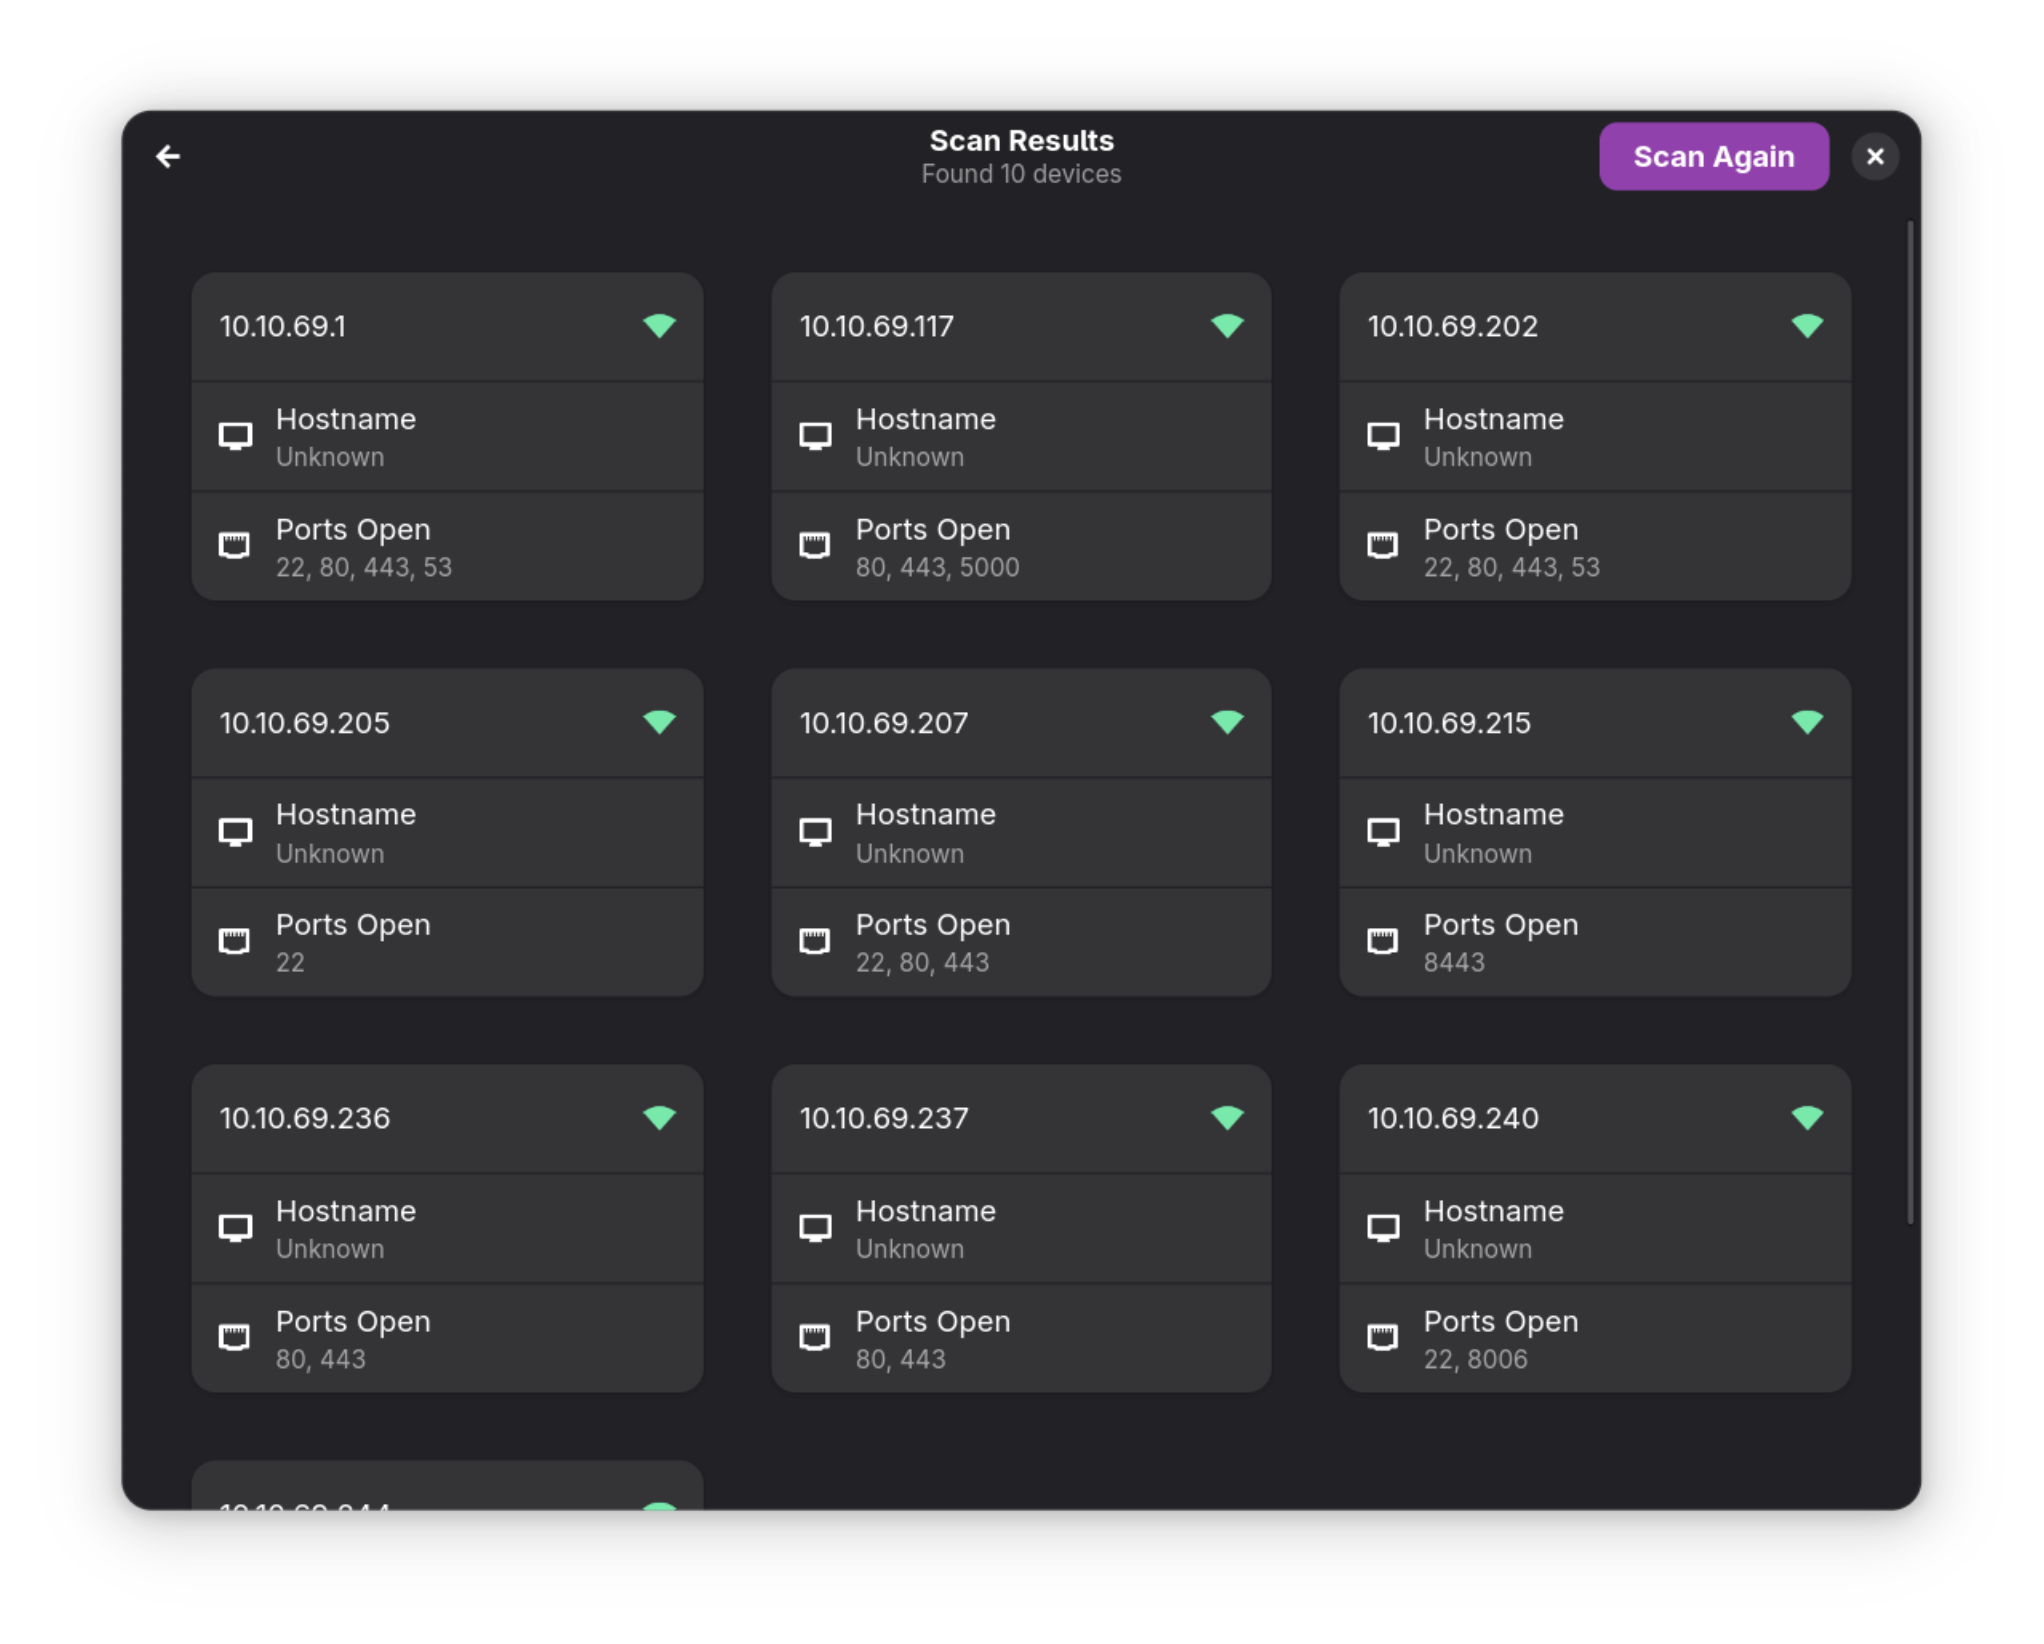
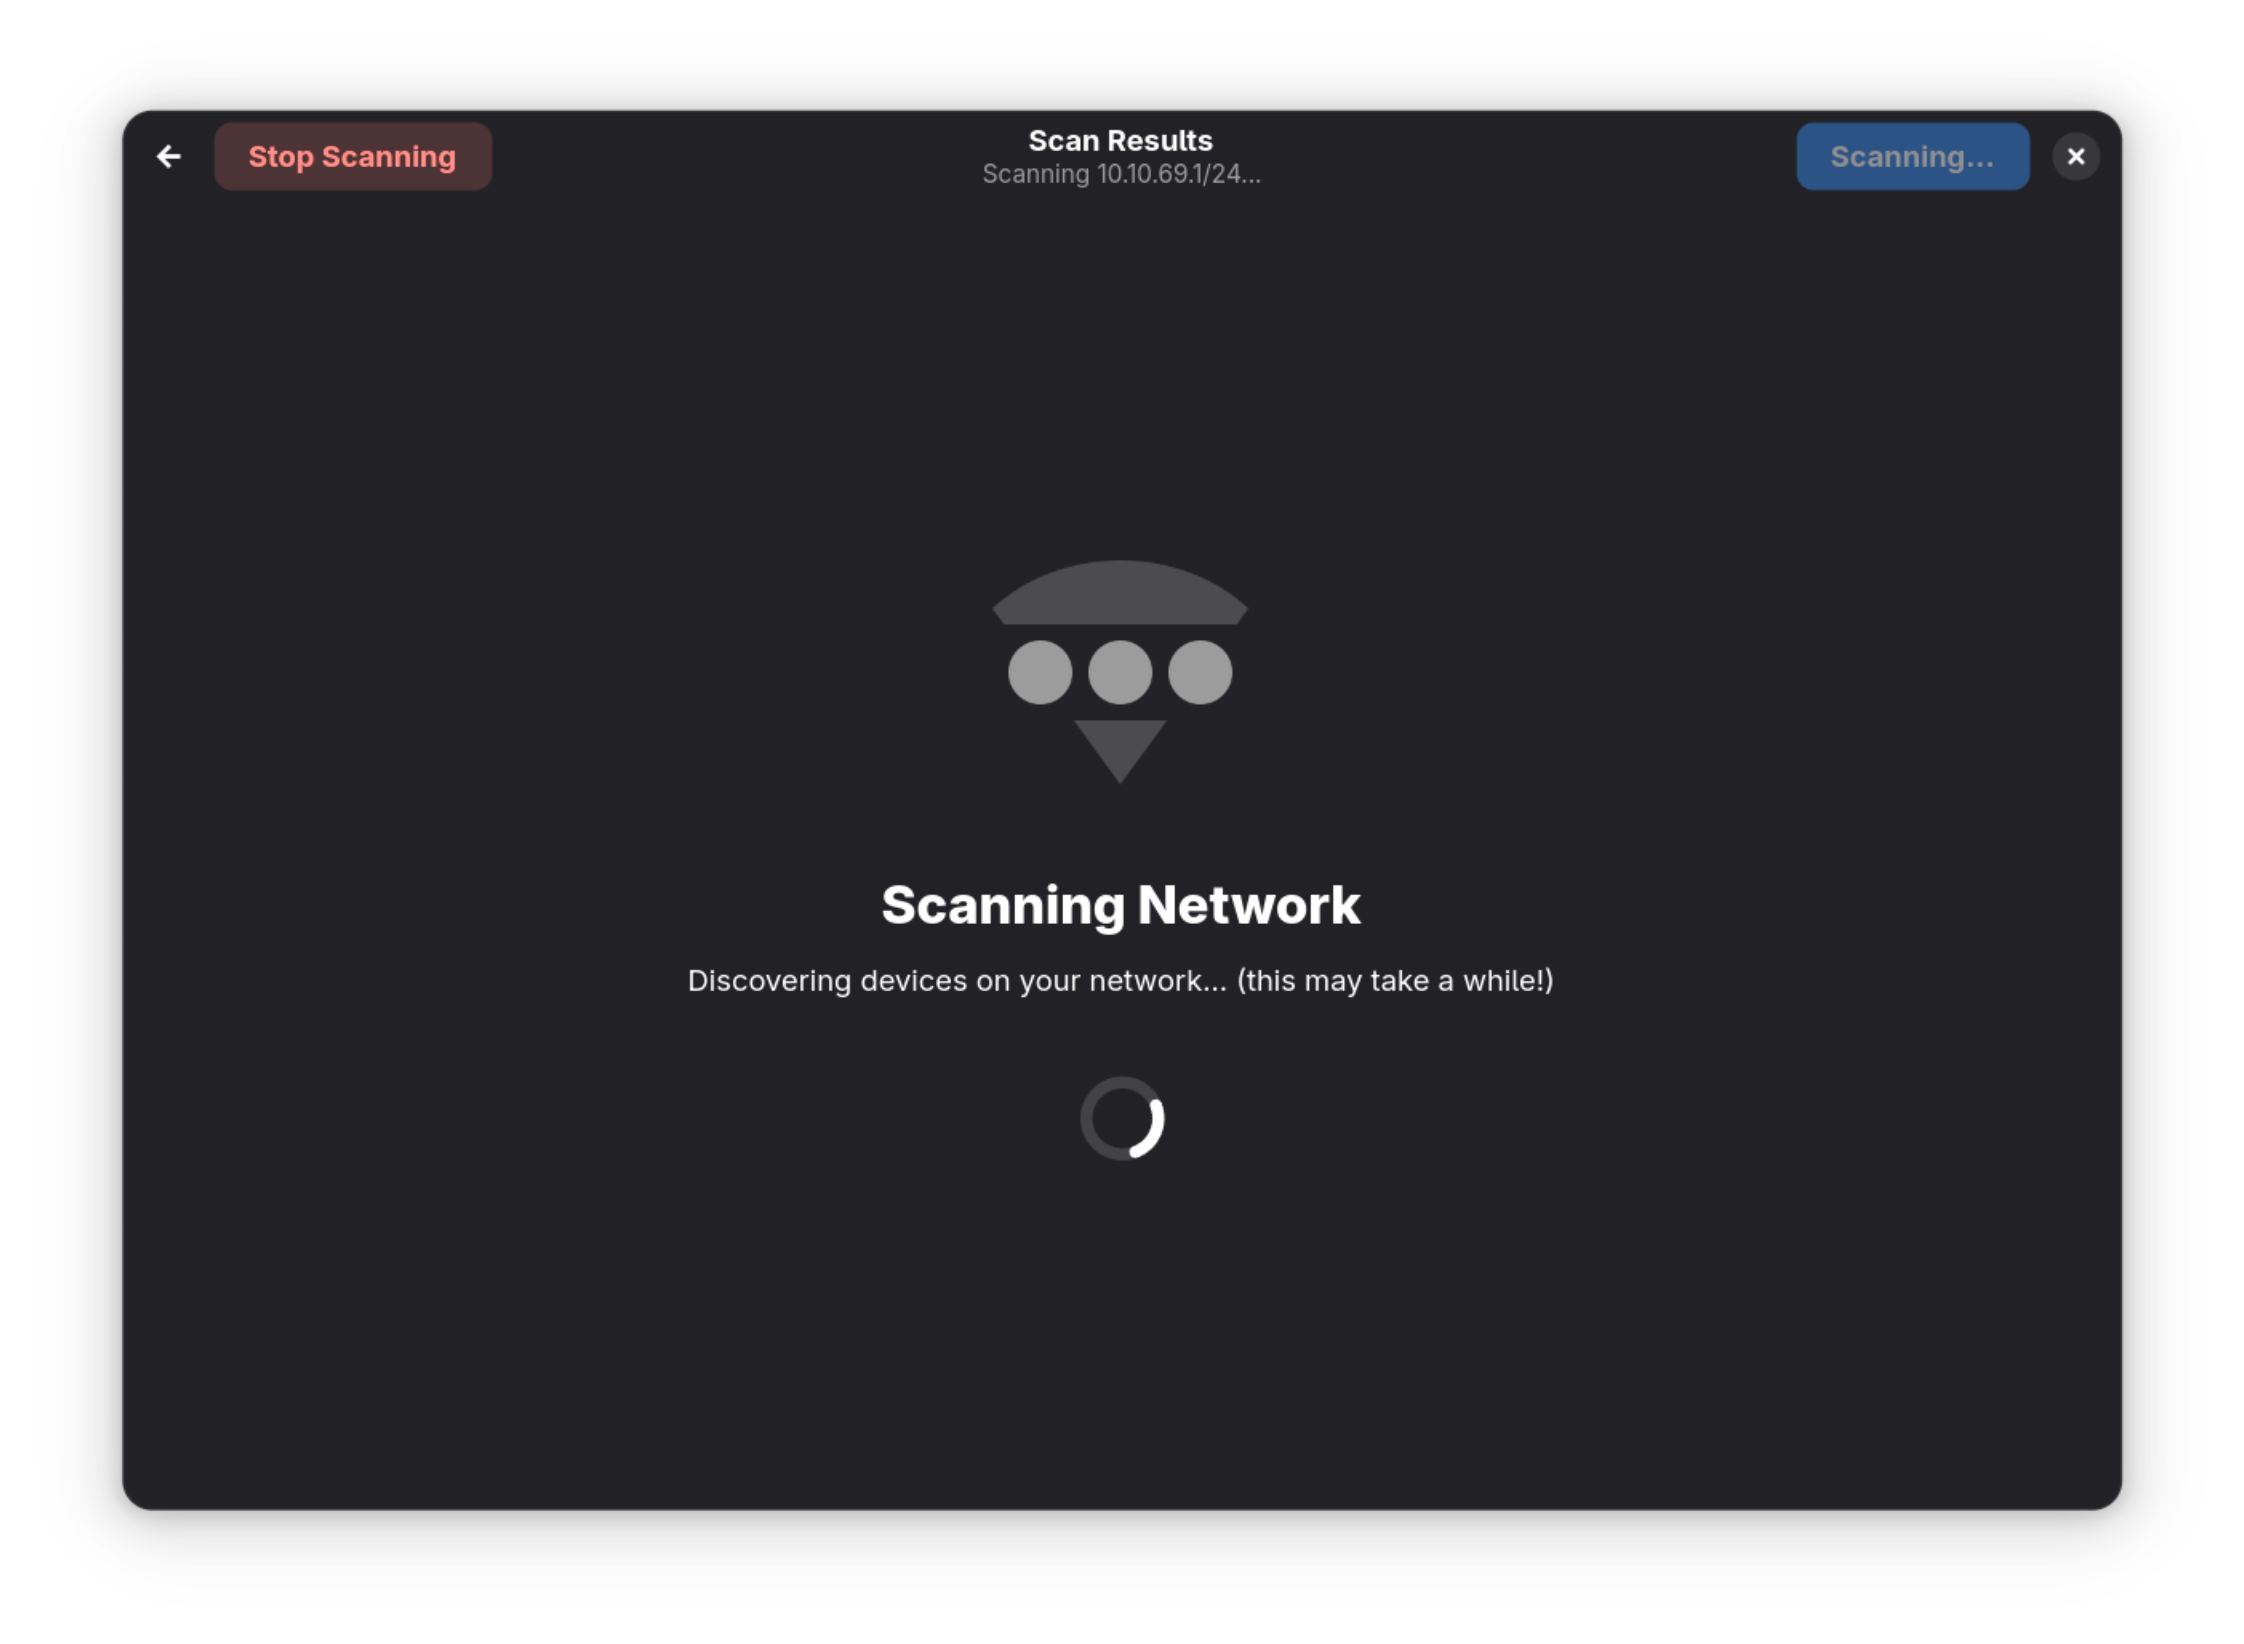
Updates & Fixes

diff --git a/src/scanner.py b/src/scanner.py
@@ -1,7 +1,6 @@
 import threading
 import ipaddress
 import socket
-import subprocess
 from concurrent.futures import ThreadPoolExecutor
 from gi.repository import GLib
 
@@ -13,6 +12,7 @@ class NetworkScanner:
     def __init__(self):
         self.common_ports = [22, 80, 443, 3389, 53, 21, 23, 8080, 8443, 8006, 5000]
         self.is_scanning = False
+        self.partial_results = []  # Store partial results for when scan is stopped
 
     def validate_ip_range(self, ip_range):
         if not ip_range:
@@ -41,25 +41,7 @@ class NetworkScanner:
         except Exception as e:
             return False, _("Invalid IP range: ") + str(e)
 
-    def auto_detect_network(self):
-        try:
-            result = subprocess.run(['ip', 'route', 'show', 'default'],
-                                    capture_output=True, text=True, timeout=5)
 
-            if result.returncode == 0:
-                lines = result.stdout.strip().split('\n')
-                for line in lines:
-                    if 'default via' in line:
-                        parts = line.split()
-                        gateway_ip = parts[2]
-                        network = '.'.join(gateway_ip.split('.')[:-1]) + '.0/24'
-                        return network, _("Auto-detected network: ") + network
-
-            return "192.168.1.0/24", _("Using default network range")
-
-        except Exception as e:
-            print(_("Auto-detection failed: ") + str(e))
-            return "192.168.1.0/24", _("Using default network range")
 
     def is_port_open(self, ip, port):
         try:
@@ -70,15 +52,21 @@ class NetworkScanner:
             return False
 
     def scan_single_ip(self, ip_str, lock, devices):
+        # Check if scanning should continue
+        if not self.is_scanning:
+            return
+
         alive = False
         open_ports = []
 
         for port in self.common_ports:
+            if not self.is_scanning:  # Check again before each port scan
+                return
             if self.is_port_open(ip_str, port):
                 alive = True
                 open_ports.append(port)
 
-        if not alive:
+        if not alive and self.is_scanning:
             try:
                 with socket.socket(socket.AF_INET, socket.SOCK_STREAM) as s:
                     s.settimeout(0.1)
@@ -87,7 +75,7 @@ class NetworkScanner:
             except:
                 pass
 
-        if alive:
+        if alive and self.is_scanning:
             hostname = ip_str
             try:
                 hostname = socket.gethostbyaddr(ip_str)[0]
@@ -102,6 +90,7 @@ class NetworkScanner:
 
             with lock:
                 devices.append(device)
+                self.partial_results.append(device)  # Store partial result
 
     def parse_ip_range(self, ip_range):
         hosts = []
@@ -135,6 +124,7 @@ class NetworkScanner:
         def do_scan():
             try:
                 self.is_scanning = True
+                self.partial_results = []  # Clear previous partial results
                 devices = []
                 lock = threading.Lock()
 
@@ -148,13 +138,22 @@ class NetworkScanner:
                         future = executor.submit(self.scan_single_ip, str(host), lock, devices)
                         futures.append(future)
 
+                    # Wait for all futures or until scanning is stopped
                     for future in futures:
                         if not self.is_scanning:
+                            # Cancel remaining futures if scan was stopped
+                            for remaining_future in futures:
+                                remaining_future.cancel()
                             break
-                        future.result()
+                        try:
+                            future.result(timeout=1)  # Short timeout to allow checking scan status
+                        except:
+                            pass
 
-                self.is_scanning = False
-                GLib.idle_add(callback, devices)
+                # Only call callback if scan completed normally (not stopped)
+                if self.is_scanning:
+                    self.is_scanning = False
+                    GLib.idle_add(callback, devices)
 
             except Exception as e:
                 self.is_scanning = False
@@ -164,4 +163,9 @@ class NetworkScanner:
             threading.Thread(target=do_scan, daemon=True).start()
 
     def stop_scan(self):
+        """Stop the current scan"""
         self.is_scanning = False
+
+    def get_partial_results(self):
+        """Get the partial results from a stopped scan"""
+        return self.partial_results.copy()

diff --git a/src/pages.py b/src/pages.py
@@ -125,11 +125,7 @@ class HomePage:
             preset_button = PresetButton(preset_range, tooltip, self.on_preset_clicked)
             preset_box.append(preset_button)
 
-        auto_button = Gtk.Button(label=_("Auto-Detect"))
-        auto_button.set_tooltip_text(_("Try to automatically detect your network range."))
-        auto_button.add_css_class("pill")
-        auto_button.connect('clicked', self.on_auto_detect_clicked)
-        preset_box.append(auto_button)
+
 
         self.ip_group.add(self.ip_entry_row)
 
@@ -145,12 +141,9 @@ class HomePage:
         clamp.set_child(input_box)
         parent_box.append(clamp)
 
-        self.auto_detect_network()
 
-    def auto_detect_network(self):
-        network, message = self.scanner.auto_detect_network()
-        self.ip_entry_row.set_text(network)
-        self.show_toast(_(message))
+
+
 
     def on_scan_clicked(self, button):
         if not self.validate_ip_range():
@@ -168,8 +161,7 @@ class HomePage:
         self.ip_entry_row.set_text(preset_range)
         self.show_toast(_("Set IP range to: ") + preset_range, 2)
 
-    def on_auto_detect_clicked(self, button):
-        self.auto_detect_network()
+
 
     def validate_ip_range(self):
         ip_range = self.ip_entry_row.get_text().strip()
@@ -213,6 +205,15 @@ class ResultsPage:
         self.results_title.set_subtitle(_("Devices found on your network:"))
         header_bar.set_title_widget(self.results_title)
 
+        # Stop Scanning button (left side)
+        self.stop_button = Gtk.Button(label=_("Stop Scanning"))
+        self.stop_button.add_css_class("destructive-action")
+        self.stop_button.set_tooltip_text(_("Stop the current network scan"))
+        self.stop_button.connect('clicked', self.on_stop_clicked)
+        self.stop_button.set_visible(False)  # Initially hidden
+        header_bar.pack_start(self.stop_button)
+
+        # Rescan button (right side)
         self.rescan_button = Gtk.Button(label=_("Scan Again"))
         self.rescan_button.add_css_class("suggested-action")
         self.rescan_button.connect('clicked', self.on_rescan_clicked)
@@ -277,6 +278,7 @@ class ResultsPage:
     def start_scan(self, ip_range):
         self.rescan_button.set_sensitive(False)
         self.rescan_button.set_label(_("Scanning..."))
+        self.stop_button.set_visible(True)  # Show stop button during scan
 
         self.clear_results()
 
@@ -298,6 +300,29 @@ class ResultsPage:
             self.flow_box.remove(child)
             child = next_child
 
+    def on_stop_clicked(self, button):
+        """Handle stop scanning button click"""
+        self.scanner.stop_scan()
+        self.stop_button.set_visible(False)
+        self.spinner.stop()
+        self.rescan_button.set_sensitive(True)
+        self.rescan_button.set_label(_("Scan Again"))
+
+        # Show partial results if any devices were found
+        if self.scanner.get_partial_results():
+            devices = self.scanner.get_partial_results()
+            for device in devices:
+                card = DeviceCard(device)
+                self.flow_box.append(card)
+
+            self.results_stack.set_visible_child_name("devices")
+            self.results_title.set_subtitle(_("Scan stopped - Found {count} devices").format(count=len(devices)))
+            self.show_toast(_("Scan stopped. Found {count} devices so far.").format(count=len(devices)))
+        else:
+            self.results_stack.set_visible_child_name("empty")
+            self.results_title.set_subtitle(_("Scan stopped - No devices found"))
+            self.show_toast(_("Scan stopped. No devices found."))
+
     def on_rescan_clicked(self, button):
         if self.home_page:
             ip_range = self.home_page.ip_entry_row.get_text().strip()
@@ -310,6 +335,7 @@ class ResultsPage:
         self.spinner.stop()
         self.rescan_button.set_sensitive(True)
         self.rescan_button.set_label(_("Scan Again"))
+        self.stop_button.set_visible(False)  # Hide stop button when scan completes
 
         if devices:
             for device in devices:
@@ -328,6 +354,7 @@ class ResultsPage:
         self.spinner.stop()
         self.rescan_button.set_sensitive(True)
         self.rescan_button.set_label(_("Scan Again"))
+        self.stop_button.set_visible(False)  # Hide stop button on error
 
         self.results_stack.set_visible_child_name("error")
         self.error_page.set_description(_("Error: ") + error_message)
@@ -338,4 +365,3 @@ class ResultsPage:
         toast = Adw.Toast(title=_(message))
         toast.set_timeout(timeout)
         self.toast_overlay.add_toast(toast)
-

diff --git a/src/window.py b/src/window.py
@@ -16,7 +16,7 @@ class NetworkScannerWindow(Adw.ApplicationWindow):
         super().__init__(**kwargs)
 
         self.set_title(_("NetPeek"))
-        self.set_default_size(900, 700)
+        self.set_default_size(1000, 700)
 
         self.toast_overlay = Adw.ToastOverlay()
         self.set_content(self.toast_overlay)
@@ -41,14 +41,14 @@ class NetworkScannerWindow(Adw.ApplicationWindow):
     def on_about_action(self, action, param):
         about = Adw.AboutDialog()
         about.set_application_name(_("NetPeek"))
-        about.set_version("0.1")
+        about.set_version("0.2")
         about.set_developer_name("ZingyTomato")
         about.set_license_type(Gtk.License.GPL_3_0)
         about.set_comments(_("Discover devices on your local network."))
         about.set_website("https://github.com/zingytomato/netpeek")
         about.set_issue_url("https://github.com/zingytomato/netpeek/issues")
         about.set_application_icon("io.github.zingytomato.netpeek")
-        about.add_credit_section(_("Contributors"), ["ZingyTomato"])
+        about.add_credit_section(_("Contributors"), ["ZingyTomato", "Gert-Dev"])
         about.present(self)
 
     def on_quit_action(self, action, param):

diff --git a/src/netpeek.py b/src/netpeek.py
@@ -8,7 +8,7 @@ gi.require_version('Adw', '1')
 import sys
 from .app import NetworkScannerApp
 
-def main(version="0.1.0"):
+def main(version="0.2"):
     """Main entry point for the application"""
     app = NetworkScannerApp()
     app.version = version

diff --git a/README.md b/README.md
@@ -5,11 +5,11 @@ A modern network scanner for GNOME that helps you discover devices on your local
 ## 📷 Screenshots
 
 
-![Home Page](data/screenshots/1.png)
+![Home Page](https://github.com/ZingyTomato/NetPeek/blob/master/data/screenshots/1.png?raw=true)
 
-![Results Page](data/screenshots/2.png)
+![Results Page](https://github.com/ZingyTomato/NetPeek/blob/master/data/screenshots/2.png?raw=true)
 
-![No Devices Found](data/screenshots/3.png)
+![No Devices Found](https://github.com/ZingyTomato/NetPeek/blob/master/data/screenshots/3.png?raw=true)
 
 <a href='https://flathub.org/apps/io.github.zingytomato.netpeek'>
     <img width='240' alt='Get it on Flathub' src='https://flathub.org/api/badge?svg&locale=en'/>
@@ -61,7 +61,7 @@ All dependencies are included in the Python standard library:
 
 ## 📙 License
 
-This project is licensed under the GPL-3.0 License - see the [LICENSE](LICENSE) file for details.
+This project is licensed under the GPL-3.0 License - see the [LICENSE](https://github.com/ZingyTomato/NetPeek/blob/master/LICENSE) file for details.
 
 ## ❓ Support
 
